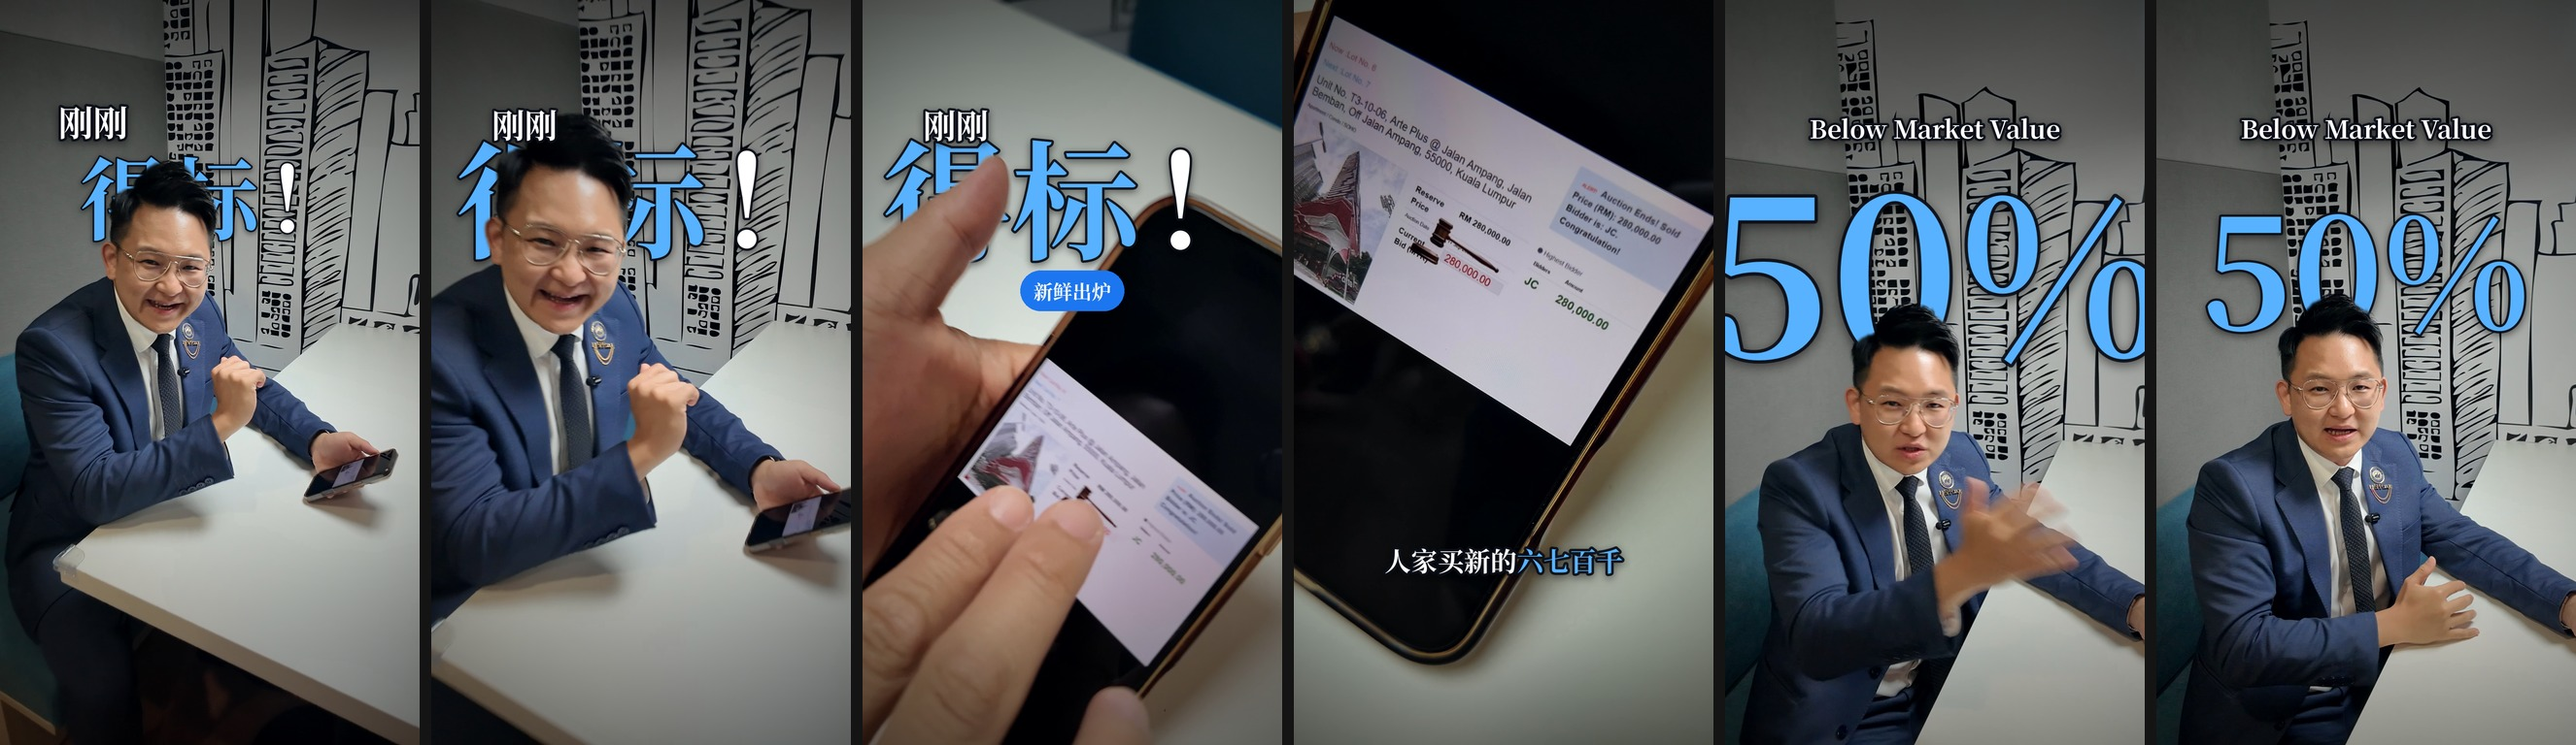
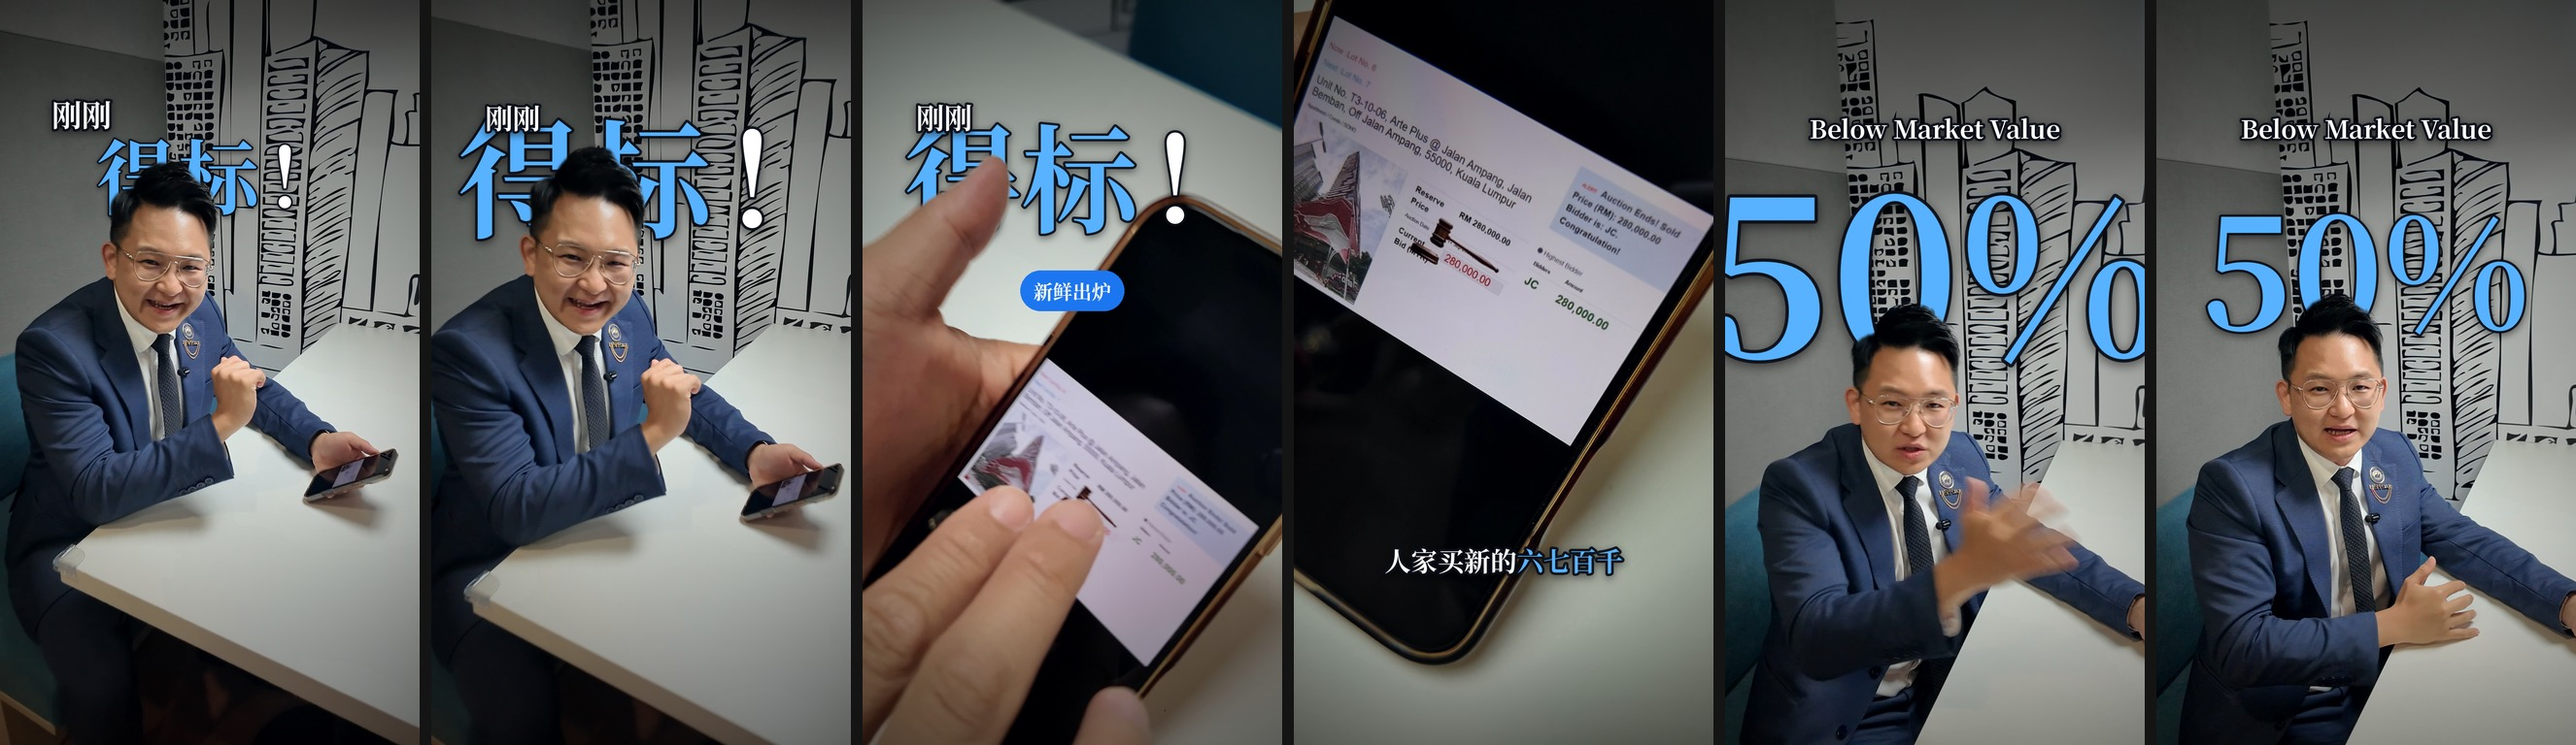
Auction reel: raise hook 得标 so the head only clips its lower edge
Claude-Session: https://claude.ai/code/session_01ESf5GfAj9V865p68iJY8EF

Changed region(s): [[0.1546, 0.0, 0.4638, 1.0], [0.0, 0.125, 0.1237, 0.3125]]

diff --git a/tools/reel/specs.py b/tools/reel/specs.py
@@ -54,8 +54,8 @@ def v2_elements():
     E = []; SY = 1450
     # hook
     # text-behind-person: huge 得标 sits between the wall and the speaker
-    E.append(El(1.0, 3.5, rich_text("刚刚", 84), W / 2 - 300, 320, "pop", 0.2))
-    E.append(El(1.0, 3.5, rich_text("[得标]！", 330, hl_scale=1.0), W / 2 + 20, 500, "slam", 0.2, behind=True))
+    E.append(El(1.0, 3.5, rich_text("刚刚", 72), W / 2 - 330, 300, "pop", 0.2))
+    E.append(El(1.0, 3.5, rich_text("[得标]！", 300, hl_scale=1.0), W / 2 + 30, 445, "slam", 0.2, behind=True))
     E.append(El(2.60, 3.5, pill("新鲜出炉", 50), W / 2, 750, "pop"))
     # location tag (UI chip)
     E.append(El(3.62, 9.0, pill("KL · Arte Plus", 50, fg=WHITE, bg=(14, 26, 43, 225)), W / 2, 330, "slide"))
